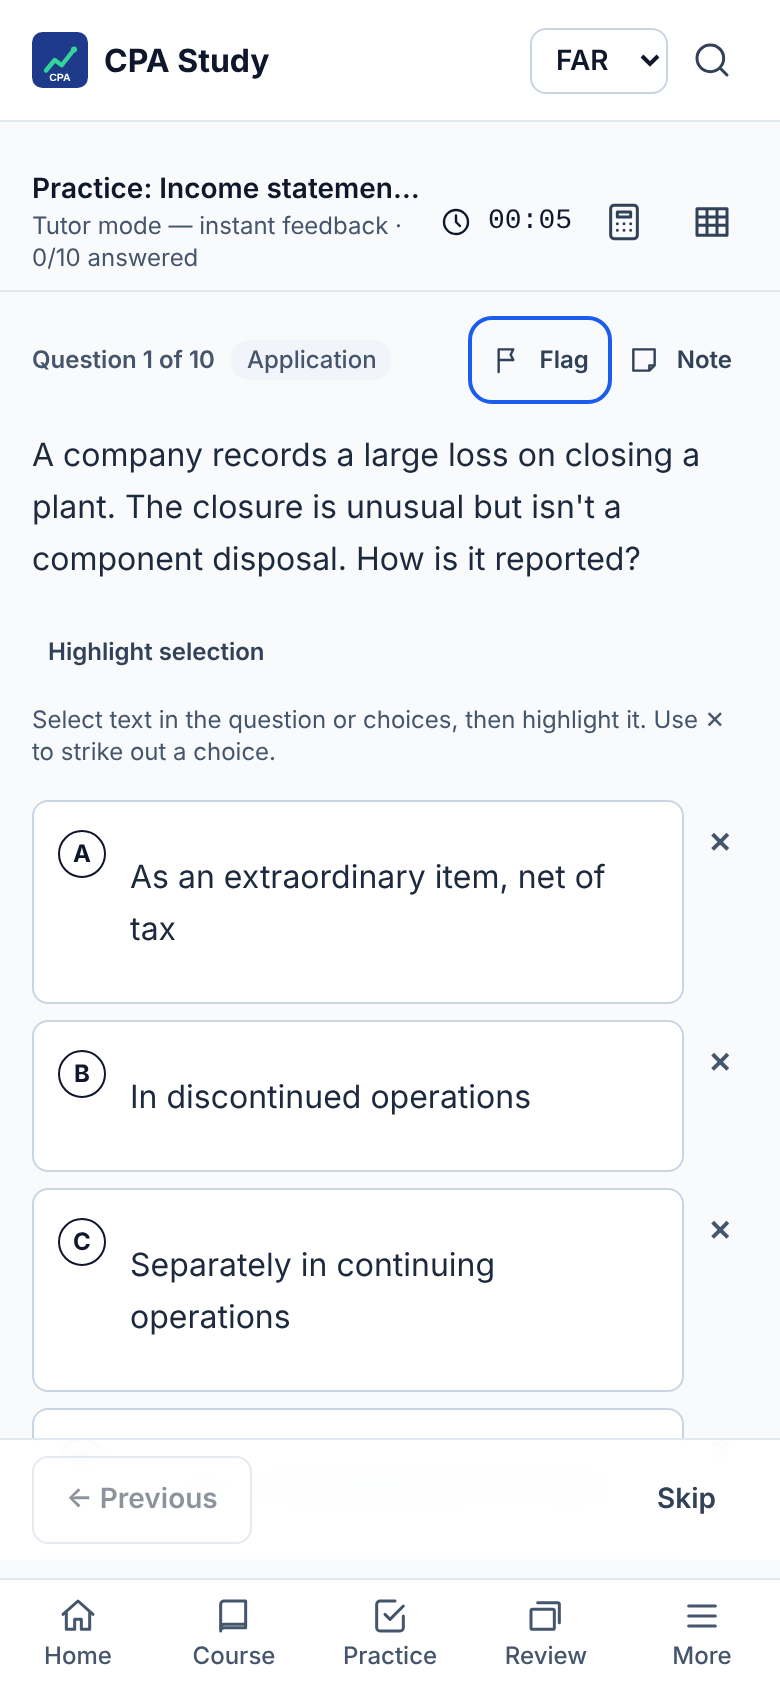
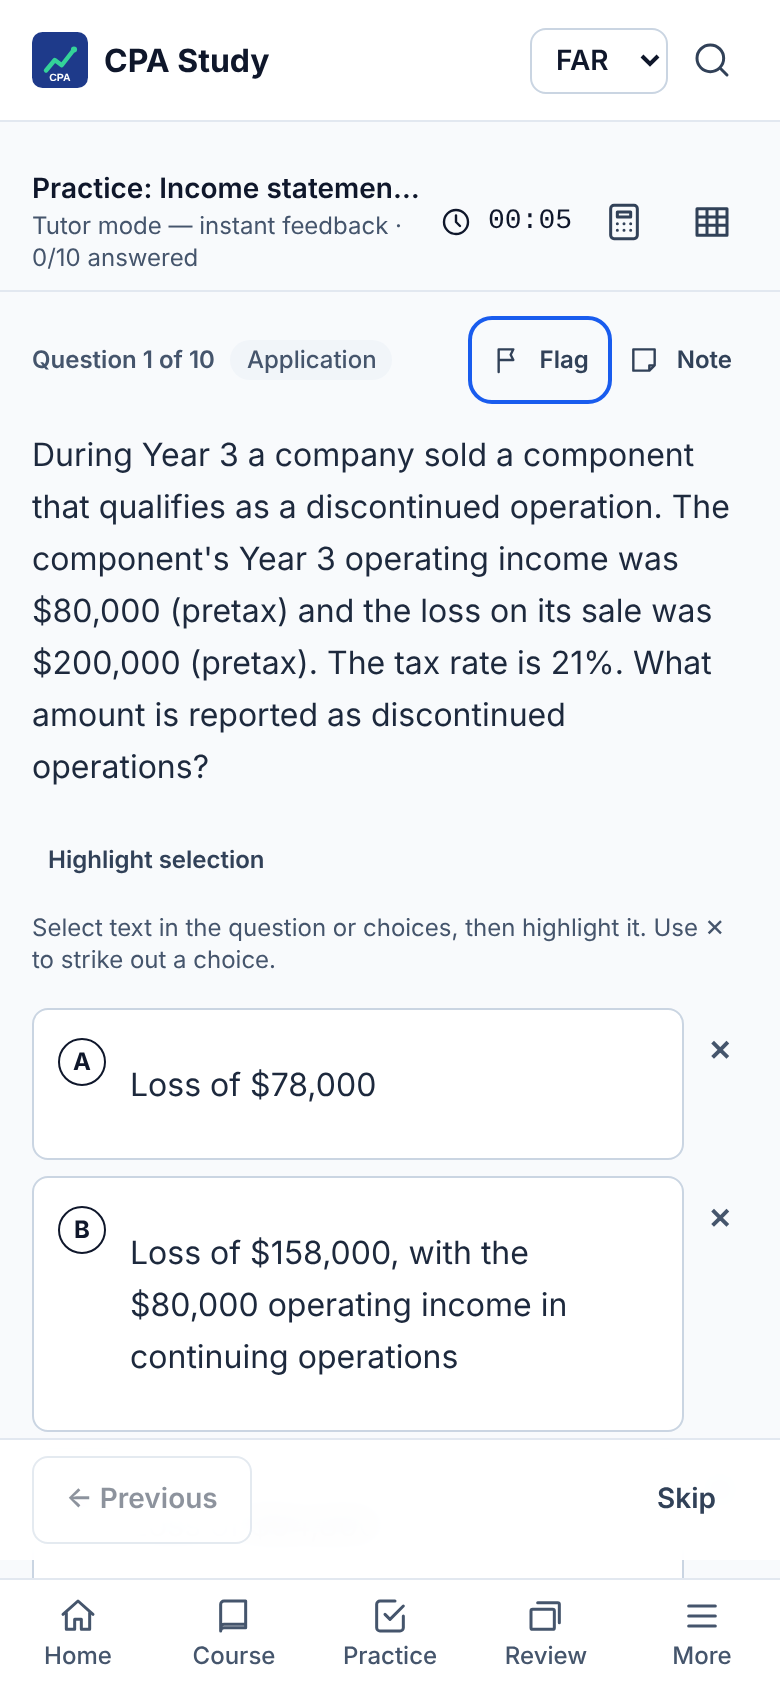
Review: merge M-far-contingencies (20) with spot-check
Claude-Session: https://claude.ai/code/session_01GQpiBvrG8RP8MkV5wHC4Tg

diff --git a/review/batches/M-far-contingencies/spotcheck.md b/review/batches/M-far-contingencies/spotcheck.md
@@ -1,0 +1,11 @@
+# Spot-check — M-far-contingencies (orchestrator)
+
+Sample: 3 of 14 no-finding items (21%).
+
+| Item | Independent check | Result |
+|---|---|---|
+| far-cont-03 | 2% × 1,200,000 = 24,000 − 19,000 paid = 5,000 = key (a). (b) 24,000 − 15,000 = 9,000; (c) 14,000; (d) 24,000. | Agree |
+| far-cont-09 | Accrual at sale: 4% × 900,000 = 36,000 = key (d). (b) 46,000; (c) ending liability 26,000. | Agree |
+| far-cont-chk1 | ASC 450-20-50-3/-4: probable but not estimable → no accrual; disclose that an estimate can't be made. Key (c). | Agree |
+
+Outcome: no misses. Batch accepted.
